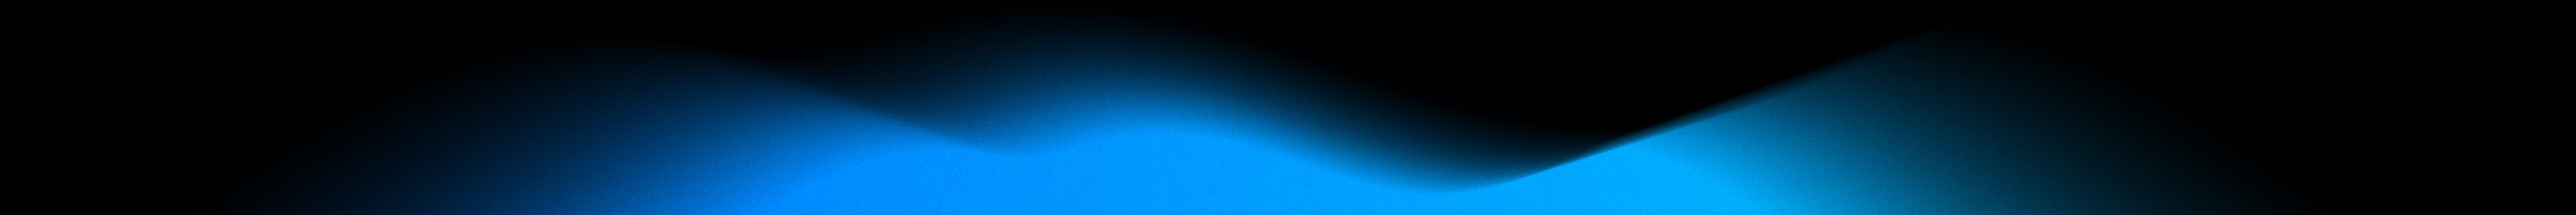
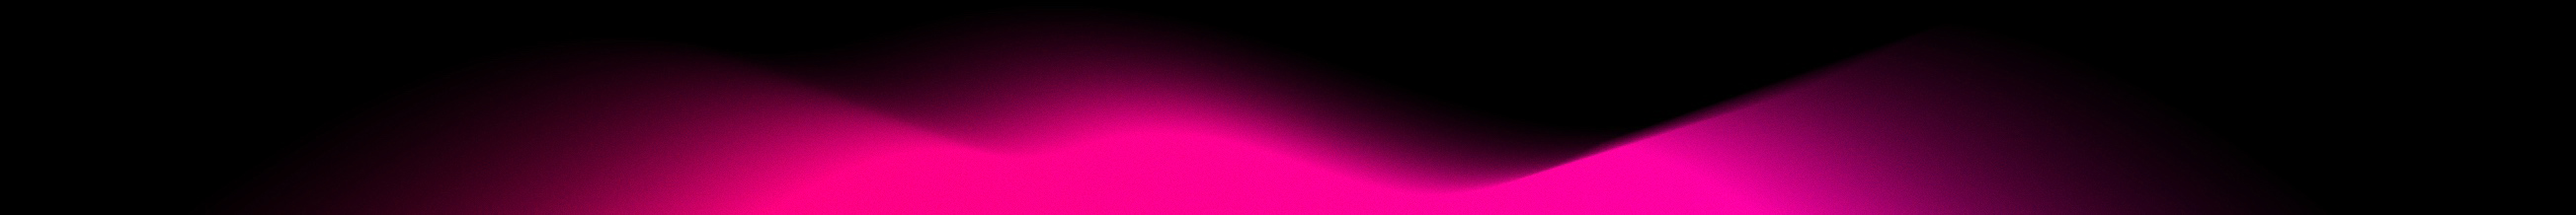
initial commit

diff --git a/style.css b/style.css
@@ -10,19 +10,19 @@ body {
   /* display: flex; */
   justify-content: center;
   align-items: center;
-  height: 180vh;
+  /*height: 180vh;*/
   margin: 0;
   color: white;
 }
 
 .downBg{
-  position: absolute;
-  bottom: 0;
-  left: 0;
   background:
           linear-gradient(rgba(15, 15, 15, 0.6), rgba(15, 15, 15, 0.6)),
           url("assets/page-bottom-bg.jpg");
-  width: 100vh;
+  width: 100%;
+  min-height: 218px;
+  background-size: cover;
+  background-position: center;
 }
 
 .jre{
@@ -69,7 +69,7 @@ body {
   display: flex;
   background: rgba(200, 200, 200, 0.1);
   backdrop-filter: blur(10px);
-  border: 1px solid rgba(255, 255, 255, 0.2);
+  border: 1px rgba(106.17, 106.17, 106.17, 0.43) solid;
   box-shadow: 0 8px 32px rgba(0, 0, 0, 0.2);
   border-radius: 30px;
   width: 67%;
@@ -81,7 +81,7 @@ body {
 
 .dowlanoadButton{
   display: flex;
-  border: 1px solid rgba(255, 255, 255, 0.2);
+  border: 1px rgba(106.17, 106.17, 106.17, 0.43) solid;
   box-shadow: 0 8px 32px rgba(0, 0, 0, 0.2);
   border-radius: 30px;
   padding: 2%;
@@ -113,7 +113,7 @@ body {
   box-sizing: border-box;
   background: rgba(200, 200, 200, 0.1);
   backdrop-filter: blur(10px);
-  border: 1px solid rgba(255, 255, 255, 0.2);
+  border: 1px rgba(106.17, 106.17, 106.17, 0.43) solid;
   box-shadow: 0 8px 32px rgba(0, 0, 0, 0.2);
   border-radius: 35px;
 
@@ -242,6 +242,7 @@ hr {
 .infoSec {
   background-image:
     linear-gradient(rgba(15, 15, 15, 0.6), rgba(15, 15, 15, 0.6)),
+    linear-gradient(to bottom, rgba(0, 0, 0, 1) 0%, rgba(0, 0, 0, 0) 5%, rgba(0, 0, 0, 0) 95%, rgba(0, 0, 0, 1) 100%),
     url("assets/premium-bg.jpg");
   background-size: 95%;
   background-position: 50%;
@@ -252,34 +253,12 @@ hr {
   display: flex;
   flex-direction: column;
   align-items: center;
-
-  -webkit-mask-image: linear-gradient(
-    to top,
-    rgba(0, 0, 0, 1) 95%,
-    rgba(0, 0, 0, 0) 100%
-  );
-  mask-image: linear-gradient(
-    to top,
-    rgba(0, 0, 0, 1) 95%,
-    rgba(0, 0, 0, 0) 100%
-  );
-
-  -webkit-mask-image: linear-gradient(
-    to bottom,
-    rgba(0, 0, 0, 1) 95%,
-    rgba(0, 0, 0, 0) 100%
-  );
-  mask-image: linear-gradient(
-    to bottom,
-    rgba(0, 0, 0, 1) 95%,
-    rgba(0, 0, 0, 0) 100%
-  );
 }
 
 .info {
   background: rgba(200, 200, 200, 0.1);
   backdrop-filter: blur(10px);
-  border: 1px solid rgba(255, 255, 255, 0.2);
+  border: 1px rgba(106.17, 106.17, 106.17, 0.43) solid;
   box-shadow: 0 8px 32px rgba(0, 0, 0, 0.2);
   border-radius: 12px;
   width: 80%;
@@ -298,7 +277,7 @@ hr {
 .glass {
   background: rgba(200, 200, 200, 0.1);
   backdrop-filter: blur(10px);
-  border: 1px solid rgba(255, 255, 255, 0.2);
+  border: 1px rgba(106.17, 106.17, 106.17, 0.43) solid;
   box-shadow: 0 8px 32px rgba(0, 0, 0, 0.2);
   border-radius: 12px;
   width: 20%;

diff --git a/index.html b/index.html
@@ -66,31 +66,31 @@
       </div>
     </div>
     <hr />
-
-    <div class="dowlanoadDiv">
-      <div class="bFlex">
-        <a href="assets/HuitaSKS.zip" download class="dowlanoadButton">
-          <picture class="dPicture">
-            <img src="assets/icon-icons.png" alt="" class="dPicture" />
-          </picture>
-          <div class="dowlanoadButtonM">
-            <p class="dTextM">Download for windows</p>
-            <p class="dPS">(recommend for windows 11)</p>
-          </div>
-        </a>
-      </div>
-      <div class="dText">
-        <p>
-          For using our app at first you need to download
-          <a
-            href="https://download.oracle.com/java/17/archive/jdk-17.0.12_windows-x64_bin.exe"
-            class="jre"
+    <div id="down" class="downBg">
+      <div class="dowlanoadDiv">
+        <div class="bFlex">
+          <a href="assets/HuitaSKS.zip" download class="dowlanoadButton">
+            <picture class="dPicture">
+              <img src="assets/icon-icons.png" alt="" class="dPicture" />
+            </picture>
+            <div class="dowlanoadButtonM">
+              <p class="dTextM">Download for windows</p>
+              <p class="dPS">(recommend for windows 11)</p>
+            </div>
+          </a>
+        </div>
+        <div class="dText">
+          <p>
+            For using our app at first you need to download
+            <a
+                    href="https://download.oracle.com/java/17/archive/jdk-17.0.12_windows-x64_bin.exe"
+                    class="jre"
             >jre</a
-          >.
-        </p>
+            >.
+          </p>
+        </div>
       </div>
     </div>
-    <div id="down" class="downBg"></div>
     <!-- <div class="hero-bg2"></div> -->
     <!-- Подключаем JavaScript в конце <body> -->
     <script src="script.js"></script>
